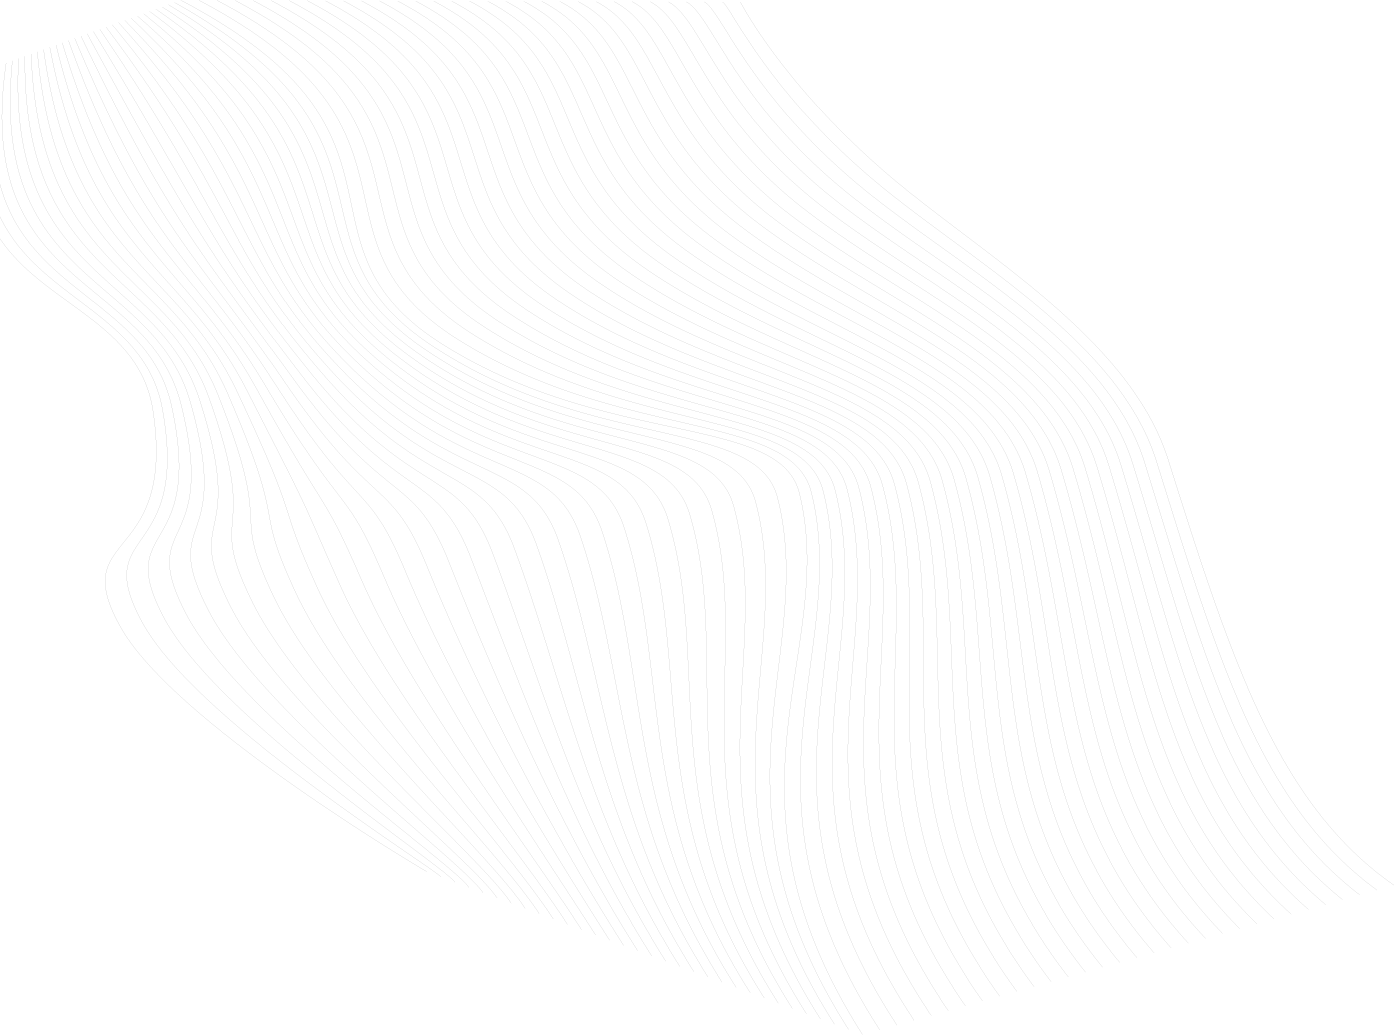
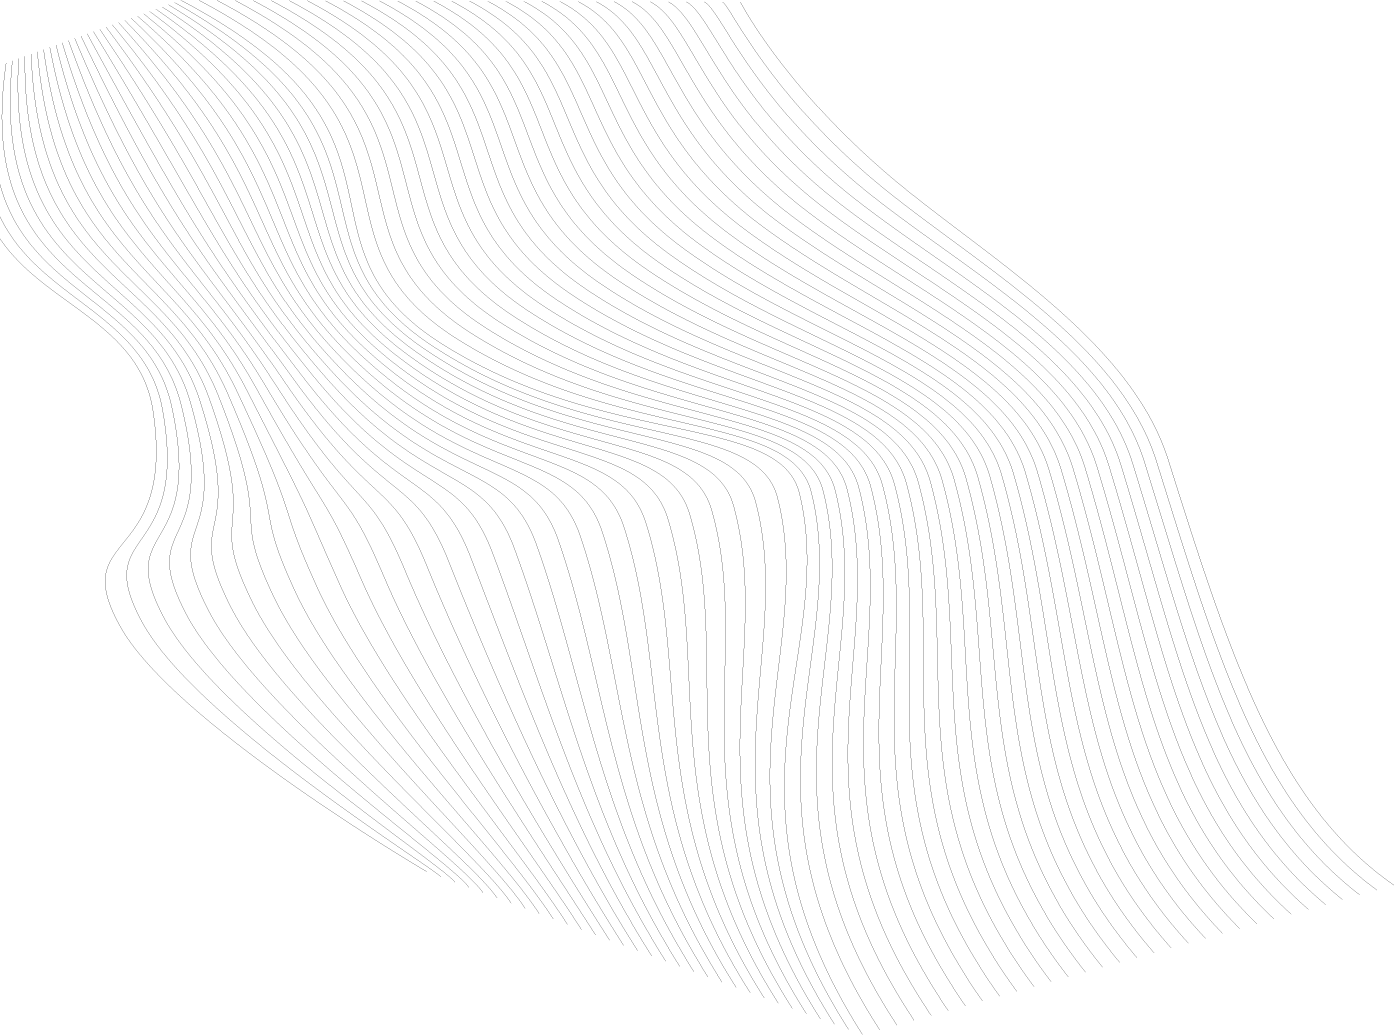
landingPage/ add transitions

diff --git a/client/src/layouts/LandingPage/modules/views/ProductValues.js b/client/src/layouts/LandingPage/modules/views/ProductValues.js
@@ -13,12 +13,15 @@ const styles = theme => ({
   root: {
     display: "flex",
     overflow: "hidden",
-    backgroundColor: "#c5e5ff69"
+    backgroundColor: " #7fc7d9;"
   },
   container: {
     padding: 50,
     display: "flex",
     position: "relative"
+  },
+  itemsContainer: {
+    zIndex: 1
   },
   item: {
     display: "flex",
@@ -33,7 +36,8 @@ const styles = theme => ({
     "&:hover": {
       transform: " scale(1.2)",
       transition: "all 0.3s ease"
-    }
+    },
+    color: "white"
   },
   title: {
     marginTop: theme.spacing(5),
@@ -43,7 +47,8 @@ const styles = theme => ({
   curvyLines: {
     pointerEvents: "none",
     position: "absolute",
-    top: -180
+    top: -180,
+    zIndex: 0
   }
 });
 
@@ -58,21 +63,13 @@ function ProductValues(props) {
           className={classes.curvyLines}
           alt="curvy lines"
         />
-        <Grid container spacing={5}>
+        <Grid className={classes.itemsContainer} container spacing={5}>
           <Grid item xs={12} md={4}>
             <div className={classes.item}>
               <DashboardIcon className={classes.image} />
               <Typography variant="h6" className={classes.title}>
                 Reactive Dashboard
               </Typography>
-              {/* <Typography variant="h5">
-                {
-                  "From the latest trendy boutique hotel to the iconic palace with XXL pool"
-                }
-                {
-                  ", go for a mini-vacation just a few subway stops away from your home."
-                }
-              </Typography> */}
             </div>
           </Grid>
           <Grid item xs={12} md={4}>

diff --git a/client/src/layouts/LandingPage/modules/views/MainSectionLayout.js b/client/src/layouts/LandingPage/modules/views/MainSectionLayout.js
@@ -4,6 +4,7 @@ import clsx from "clsx";
 import { withStyles } from "@material-ui/core/styles";
 import ArrowDownwardIcon from "@material-ui/icons/ArrowDownward";
 import { Link } from "react-scroll";
+import { Spring, config } from "react-spring/renderprops";
 
 const styles = theme => ({
   root: {
@@ -63,7 +64,15 @@ function ProductHeroLayout(props) {
       <div className={classes.container}>
         {children}
         <div className={classes.backdrop} />
-        <div className={clsx(classes.background, backgroundClassName)} />
+        <Spring from={{ opacity: 0 }} to={{ opacity: 1 }} config={config.slow}>
+          {props => (
+            <div
+              style={props}
+              className={clsx(classes.background, backgroundClassName)}
+            />
+          )}
+        </Spring>
+        {/* <div className={clsx(classes.background, backgroundClassName)} /> */}
         <Link
           to="mockup-section"
           spy={true}

diff --git a/client/src/layouts/LandingPage/modules/views/MainSection.js b/client/src/layouts/LandingPage/modules/views/MainSection.js
@@ -16,7 +16,8 @@ const styles = theme => ({
   background: {
     backgroundImage: `url(${Background})`,
     backgroundColor: "#7fc7d9", // Average color of the background image.
-    backgroundPosition: "center"
+    backgroundPosition: "center",
+    transition: "all 0.3s ease"
   },
   button: {
     minWidth: 200,
@@ -78,8 +79,6 @@ function MainSection(props) {
 
   return (
     <MainSectionLayout backgroundClassName={classes.background}>
-      {/* Increase the network loading priority of the background image. */}
-      <img style={{ display: "none" }} src={Background} alt="main_bg" />
       <img className={classes.logo} src={LogoLight} alt="logo_light" />
       <Typography
         className={classes.titlePrimary}

diff --git a/client/src/layouts/Loader/Spinner.js b/client/src/layouts/Loader/Spinner.js
@@ -13,9 +13,9 @@ const useStyles = makeStyles(theme => ({
     margin: "auto"
   },
   logo: {
-    maxWidth: 350,
+    maxWidth: 283,
     position: "relative",
-    top: 280
+    top: 227
   }
 }));
 
@@ -26,7 +26,7 @@ export const Spinner = () => {
     <div className={classes.root}>
       <div className={classes.spinner}>
         <img className={classes.logo} src={logo} alt="logo" />
-        <CircularProgress size={400} thickness={2} />
+        <CircularProgress size={300} thickness={2} />
       </div>
     </div>
   );

diff --git a/client/src/App.js b/client/src/App.js
@@ -12,7 +12,6 @@ import PrivateRoute from "./routing/PrivateRoute";
 import { fetchClients } from "./actions/clientActions";
 import LandingPage from "./layouts/LandingPage/LandingPage";
 import MySnackbar from "./components/Snackbar/MySnackbar";
-
 // const LandingPage = lazy(() =>
 //   import(
 //     /* webpackChunkName: "LandingPage"*/ "./layouts/LandingPage/LandingPage"
